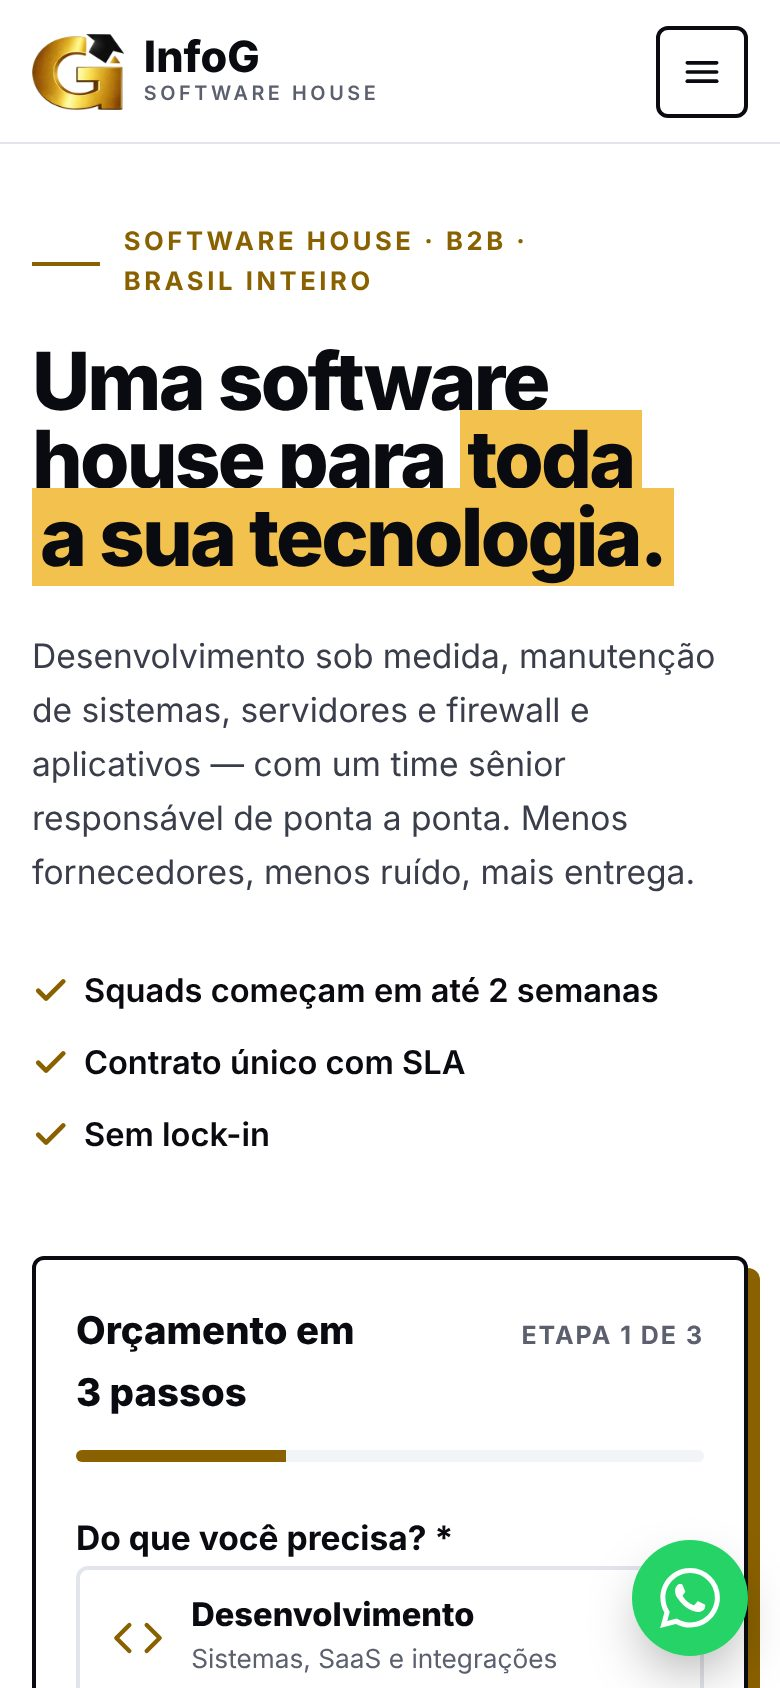
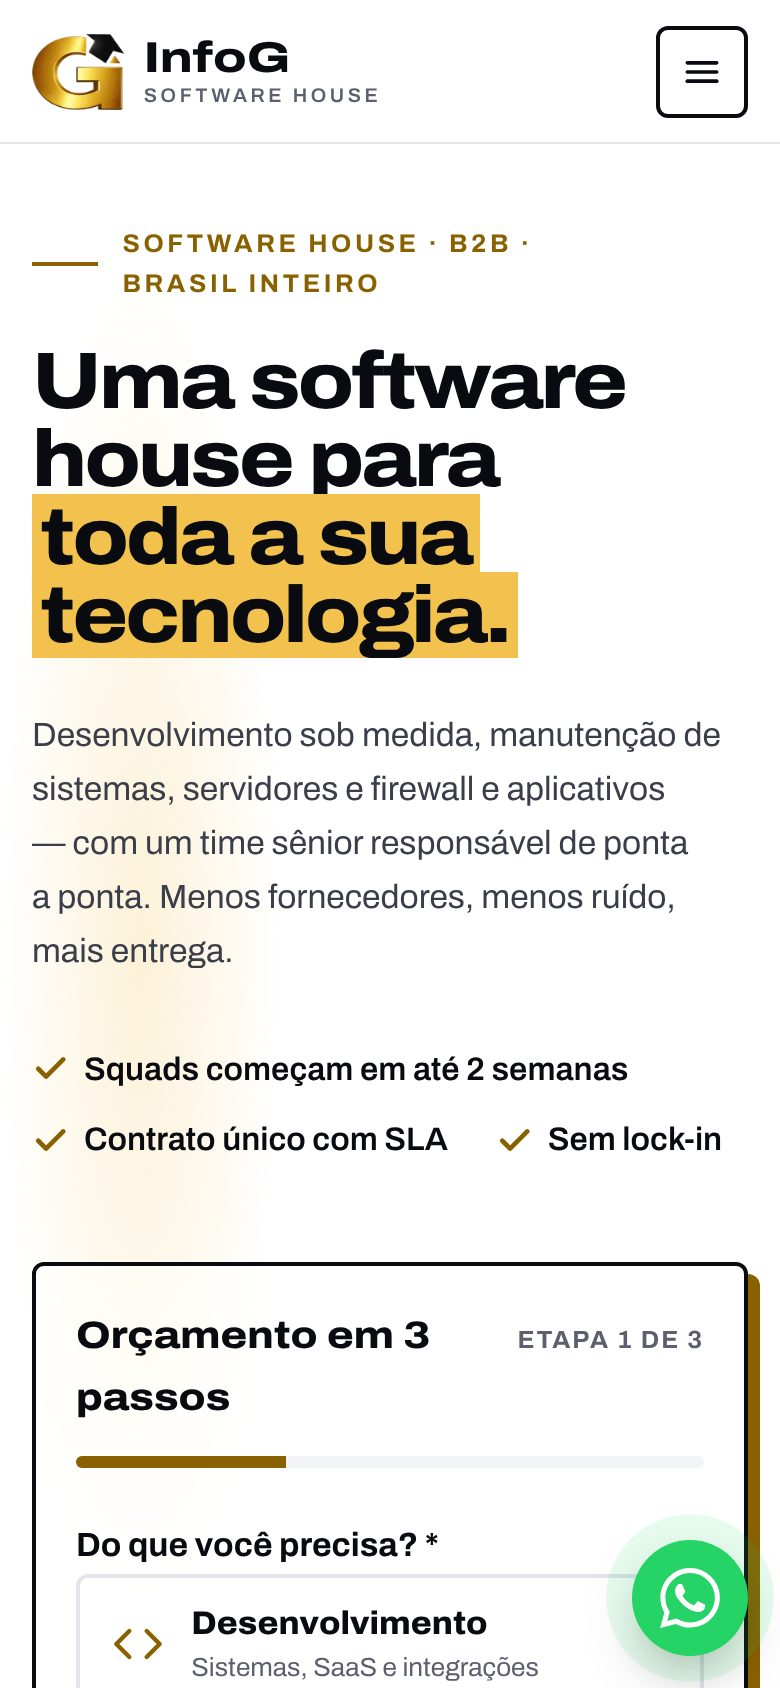
InfoG Vetor: camada de vidro, luz amarela no cursor e marca no rodapé
Claude-Session: https://claude.ai/code/session_01QmiPwcu1vZC3FNQj5DnVy9

diff --git a/modelos/infog-vetor/vidro.css b/modelos/infog-vetor/vidro.css
@@ -1,0 +1,25 @@
+/* Camada de vidro: translucidez e luz amarela sobre o layout suíço original */
+.site-header { background: rgba(255, 255, 255, 0.66); -webkit-backdrop-filter: blur(18px) saturate(1.6); backdrop-filter: blur(18px) saturate(1.6); }
+.section, .hero, .site-footer, .final-cta { position: relative; isolation: isolate; }
+.section::before, .hero::after {
+  content: ""; position: absolute; z-index: -1; inset: 0; pointer-events: none;
+  background:
+    radial-gradient(26% 36% at var(--lx, 18%) var(--ly, 30%), rgba(242, 193, 78, 0.22), transparent 70%),
+    radial-gradient(22% 30% at 88% 80%, rgba(242, 193, 78, 0.12), transparent 70%);
+}
+.section--dark::before { background: radial-gradient(28% 40% at var(--lx, 20%) var(--ly, 30%), rgba(242, 193, 78, 0.16), transparent 70%); }
+.quote-card, .case, .voice {
+  background: rgba(255, 255, 255, 0.55);
+  -webkit-backdrop-filter: blur(16px) saturate(1.5);
+  backdrop-filter: blur(16px) saturate(1.5);
+}
+.section--dark :is(.case, .model, .voice) { background: rgba(255, 255, 255, 0.06); }
+.quote-card, .case, .model { position: relative; }
+.vidro-brilho { position: absolute; inset: 0; border-radius: inherit; pointer-events: none; opacity: 0; transition: opacity 0.4s; background: radial-gradient(280px circle at var(--mx, 50%) var(--my, 0%), rgba(242, 193, 78, 0.22), transparent 65%); }
+:is(.quote-card, .case, .model):hover > .vidro-brilho { opacity: 1; }
+.vidro-marca {
+  font-family: 'Archivo', system-ui, sans-serif; font-weight: 800; font-size: clamp(80px, 22vw, 320px); line-height: 0.8;
+  letter-spacing: -0.06em; text-align: center; margin-top: 2rem; color: transparent; -webkit-text-stroke: 1px rgba(242, 193, 78, 0.35);
+  background: linear-gradient(90deg, #f2c14e, #ffe08a, #f2c14e) no-repeat; background-size: var(--fill, 0%) 100%;
+  -webkit-background-clip: text; background-clip: text; user-select: none; white-space: nowrap;
+}

diff --git a/modelos/infog-vetor/vidro.js b/modelos/infog-vetor/vidro.js
@@ -1,0 +1,21 @@
+/* Camada de vidro: brilho no cursor, luz das seções escuras e assinatura do rodapé */
+(() => {
+  const fino = matchMedia("(hover: hover) and (pointer: fine)").matches;
+  const reduz = matchMedia("(prefers-reduced-motion: reduce)").matches;
+  const cards = document.querySelectorAll(".quote-card, .case, .model");
+  cards.forEach((c) => {
+    const b = document.createElement("span"); b.className = "vidro-brilho"; b.setAttribute("aria-hidden", "true"); c.prepend(b);
+    if (fino) c.addEventListener("pointermove", (e) => { const r = c.getBoundingClientRect(); c.style.setProperty("--mx", e.clientX - r.left + "px"); c.style.setProperty("--my", e.clientY - r.top + "px"); });
+  });
+  const escuras = document.querySelectorAll(".section, .hero");
+  if (fino && !reduz) addEventListener("pointermove", (e) => {
+    escuras.forEach((s) => { const r = s.getBoundingClientRect(); if (r.bottom < 0 || r.top > innerHeight) return; s.style.setProperty("--lx", ((e.clientX - r.left) / r.width) * 60 + 20 + "%"); s.style.setProperty("--ly", ((e.clientY - r.top) / r.height) * 60 + 20 + "%"); });
+  }, { passive: true });
+  const marca = document.querySelector(".vidro-marca");
+  if (!marca) return;
+  const enche = () => {
+    const r = marca.getBoundingClientRect(), y = scrollY;
+    if (r.top < innerHeight) { const ini = y + r.top - innerHeight, fim = document.documentElement.scrollHeight - innerHeight; marca.style.setProperty("--fill", Math.min(1, Math.max(0, (y - ini) / Math.max(1, fim - ini))) * 100 + "%"); }
+  };
+  addEventListener("scroll", enche, { passive: true }); enche();
+})();

diff --git a/modelos/infog-vetor/index.html b/modelos/infog-vetor/index.html
@@ -18,6 +18,7 @@
   <link rel="stylesheet" href="https://fonts.googleapis.com/css2?family=Archivo:wdth,wght@75..125,400..900&display=swap">
   <link rel="stylesheet" href="shared/base.css">
   <link rel="stylesheet" href="style.css">
+  <link rel="stylesheet" href="vidro.css">
   <script>
     // Ativa o modo com JS antes da primeira pintura; se lp.js não carregar, volta ao modo sem JS.
     document.documentElement.classList.add('js');
@@ -25,6 +26,7 @@
   </script>
   <script src="shared/lp.js" defer></script>
   <script src="fx.js" defer></script>
+  <script src="vidro.js" defer></script>
 </head>
 <body data-whatsapp="5511970803077">
   <a class="skip-link" href="#conteudo">Pular para o conteúdo</a>
@@ -536,6 +538,7 @@
       <p>© <span data-year>2026</span> InfoG</p>
       <p>Página de demonstração: números, cases e depoimentos são ilustrativos. <a href="../../catalogo.html">Voltar ao catálogo</a></p>
     </div>
+    <div class="container"><p class="vidro-marca" aria-hidden="true">InfoG</p></div>
   </footer>
 </body>
 </html>
